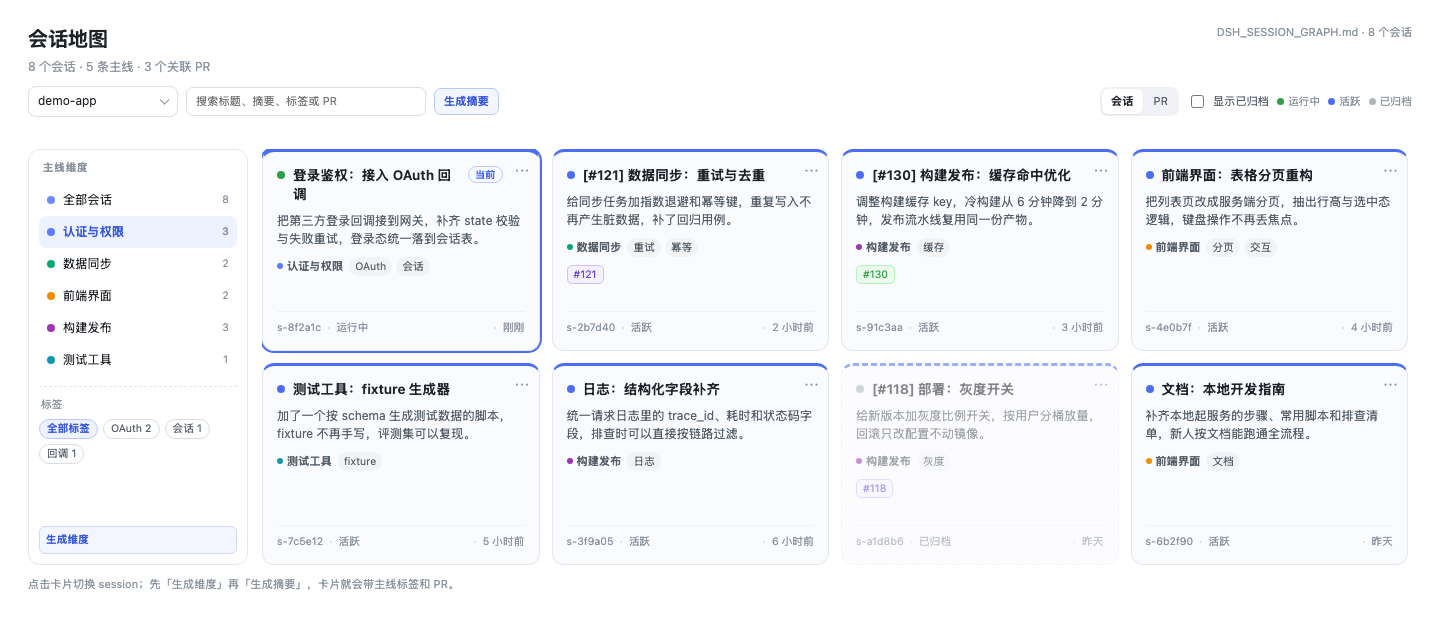
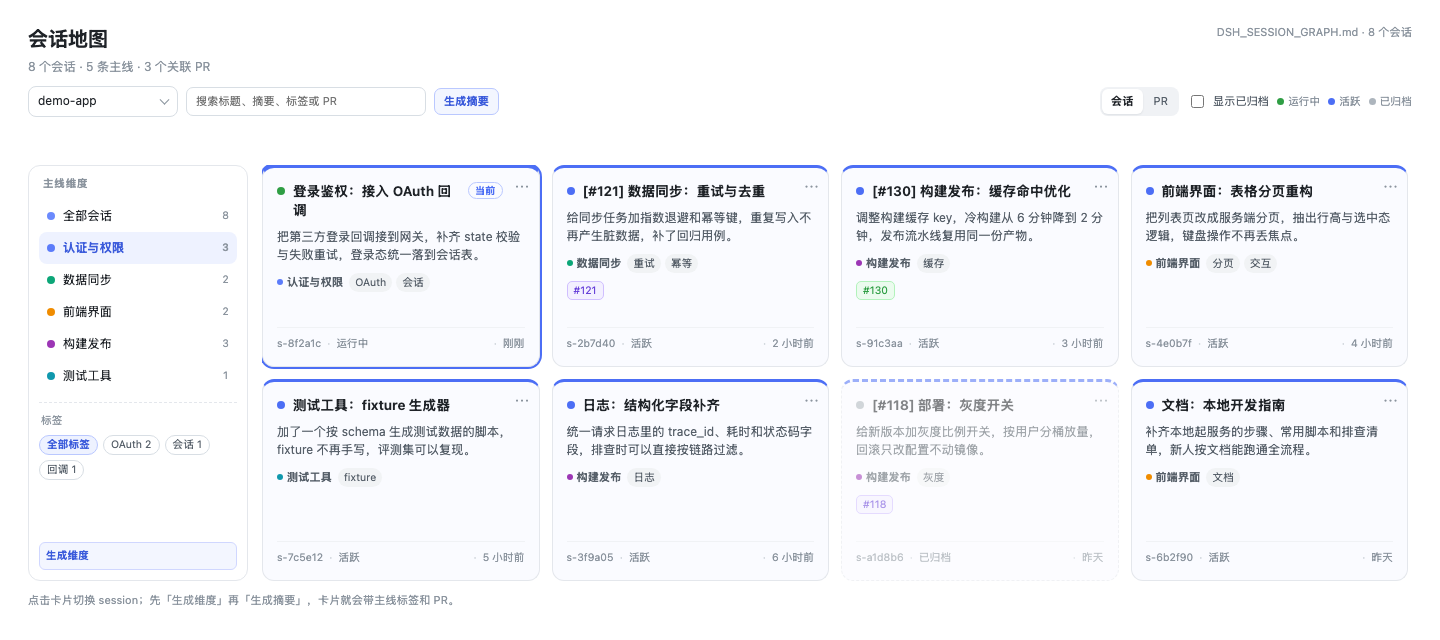
fix: count only pending sessions in progress and stabilize the status row (0.7.8)
- resolve freshness before the loop so progress totals exclude unchanged sessions
- publish the skipped count in the progress payload
- give the empty status row a fixed minimum height so showing a log no longer shifts the cards
- extend the summarizer test to cover an all-skipped run

diff --git a/lib/client.js b/lib/client.js
@@ -332,7 +332,7 @@ window.__ModuleLoader__.load({
 .dsm-seg button.on { background: var(--dsw-alias-bg-layer-1, #fff); color: var(--dsw-alias-label-primary, #1f2328); font-weight: 650; box-shadow: 0 1px 2px rgba(16, 24, 40, .08); }
 .dsm-source { max-width: 360px; overflow: hidden; text-overflow: ellipsis; white-space: nowrap; color: var(--dsw-alias-label-tertiary, #8b949e); font-size: 11px; }
 .dsm-source.is-error { color: #c92a2a; }
-.dsm-summary-status { display: block; flex: none; width: 100%; box-sizing: border-box; margin: 0 0 10px; padding: 5px 9px; border-radius: 7px; background: var(--dsw-alias-bg-layer-2, #f7f8fa); color: var(--dsw-alias-label-secondary, #57606a); font-size: 11px; line-height: 1.45; overflow: hidden; text-overflow: ellipsis; white-space: nowrap; }
+.dsm-summary-status { display: block; flex: none; width: 100%; min-height: 26px; box-sizing: border-box; margin: 0 0 10px; padding: 5px 9px; border-radius: 7px; background: var(--dsw-alias-bg-layer-2, #f7f8fa); color: var(--dsw-alias-label-secondary, #57606a); font-size: 11px; line-height: 1.45; overflow: hidden; text-overflow: ellipsis; white-space: nowrap; }
 .dsm-summary-status.is-empty { visibility: hidden; }
 .dsm-body { flex: 1 1 auto; min-height: 0; display: grid; grid-template-columns: 220px minmax(0, 1fr); gap: 14px; }
 .dsm-facets { display: flex; flex-direction: column; overflow: hidden; border: 1px solid var(--dsw-alias-border-l2, #e4e7ec); border-radius: 12px; background: var(--dsw-alias-bg-layer-1, #fff); }

diff --git a/lib/summarize_sessions.py b/lib/summarize_sessions.py
@@ -1708,6 +1708,23 @@ def main() -> None:
     failed: list[str] = []
     tag_sessions = args.mode in ("sessions", "all")
     taxonomy_updated = str((payload.get("taxonomy") or {}).get("updatedAt") or "")
+
+    # Resolve freshness before publishing progress: the panel should say how
+    # many sessions actually need a model call, not how many candidates exist.
+    pending: list[dict] = []
+    if tag_sessions:
+        for session in candidates:
+            entry = existing.get(session["id"])
+            if not args.force and summary_is_current(entry, session, taxonomy_updated):
+                skipped.append(session["id"])
+                if args.write and isinstance(entry, dict) and "summarizedTurnSeq" not in entry:
+                    entry["summarizedTurnSeq"] = int(session.get("turnSeq") or 0)
+            else:
+                pending.append(session)
+    progress_total = len(pending) if tag_sessions else 1
+    if skipped:
+        say(f"\nskipped {len(skipped)} unchanged session(s) (--force to redo)")
+
     if progress_enabled and tag_sessions:
         write_progress(
             progress_path,
@@ -1715,11 +1732,11 @@ def main() -> None:
             phase="sessions",
             total=progress_total,
             completed=0,
-            skipped=0,
+            skipped=len(skipped),
             failed=0,
             current="",
         )
-    for position, session in enumerate(candidates if tag_sessions else [], start=1):
+    for position, session in enumerate(pending, start=1):
         if USAGE["auth_failed"]:
             break
         if progress_enabled:
@@ -1734,23 +1751,6 @@ def main() -> None:
                 current=str(session.get("title") or session["id"]),
             )
         entry = existing.get(session["id"])
-        if not args.force and summary_is_current(entry, session, taxonomy_updated):
-            skipped.append(session["id"])
-            if args.write and isinstance(entry, dict) and "summarizedTurnSeq" not in entry:
-                entry["summarizedTurnSeq"] = int(session.get("turnSeq") or 0)
-            say(f"\n--- {session['id']}  unchanged; keep existing summary (--force to redo)")
-            if progress_enabled:
-                write_progress(
-                    progress_path,
-                    state="running",
-                    phase="sessions",
-                    total=progress_total,
-                    completed=position,
-                    skipped=len(skipped),
-                    failed=len(failed),
-                    current="",
-                )
-            continue
         rebuild = (
             args.force
             or not isinstance(entry, dict)

diff --git a/test/summarize_sessions_test.py b/test/summarize_sessions_test.py
@@ -505,6 +505,23 @@ class MainPipelineTest(unittest.TestCase):
         self.assertEqual(data["completed"], 1)
         self.assertIn("updatedAt", data)
 
+    def test_progress_total_excludes_up_to_date_sessions(self) -> None:
+        self.run_main("--force")
+        reports = []
+        original = summarizer.write_progress
+        summarizer.write_progress = (  # type: ignore[assignment]
+            lambda _path, **fields: reports.append(fields)
+        )
+        try:
+            self.run_main()
+        finally:
+            summarizer.write_progress = original  # type: ignore[assignment]
+        session_reports = [item for item in reports if item.get("phase") == "sessions"]
+        self.assertTrue(session_reports, "the session phase must still be published")
+        self.assertEqual(session_reports[0]["total"], 0, "an up-to-date session is not pending work")
+        self.assertEqual(session_reports[0]["skipped"], 1)
+        self.assertEqual(reports[-1]["total"], 0)
+
     def test_progress_reports_total_and_completed_sessions(self) -> None:
         reports = []
         original = summarizer.write_progress
